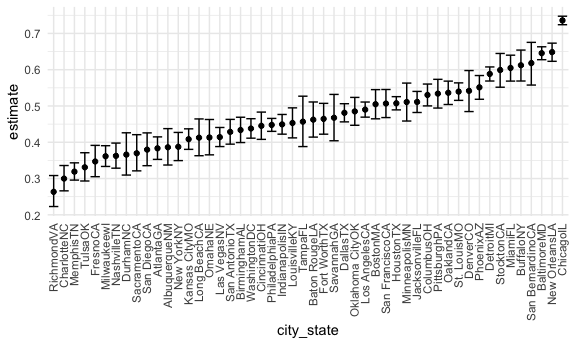
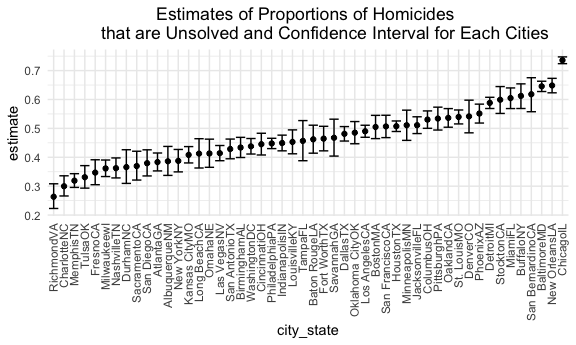
finish problem2

diff --git a/p8105_hw5_yj2686.md b/p8105_hw5_yj2686.md
@@ -50,7 +50,7 @@ baltimore_test %>%
     ##      <dbl>     <dbl>    <dbl>     <int>    <dbl>     <dbl> <chr>     <chr>      
     ## 1    0.646      239. 6.46e-54         1    0.628     0.663 1-sample… two.sided
 
-Let’s try to iterate across states:
+Iterate across states:
 
 First, Write a function.
 
@@ -88,6 +88,7 @@ results_df =
 ```
 
 Make a plot showing estimates and confidence intervals for each cities
+and organize cities according to the proportion of unsolved homicides.
 
 ``` r
 results_df %>% 
@@ -95,40 +96,61 @@ results_df %>%
   ggplot(aes(x = city_state, y = estimate)) +
   geom_point() +
   geom_errorbar(aes(ymin = conf.low, ymax = conf.high)) +
-  theme(axis.text.x = element_text(angle = 90, vjust = 0.5, hjust = 1))
+  labs(title = "Estimates of Proportions of Homicides 
+       that are Unsolved and Confidence Interval for Each Cities") +
+  theme(axis.text.x = element_text(angle = 90, vjust = 0.5, hjust = 1),
+        plot.title = element_text(hjust = 0.5))
 ```
 
 <img src="p8105_hw5_yj2686_files/figure-gfm/unnamed-chunk-5-1.png" width="90%" />
 
 ## Problem 2
 
+Create a tidy dataframe containing data from all participants, including
+the subject ID, arm, and observations over time
+
 ``` r
-tibble(files = list.files("./data/zip_data/"))
+zip_df = tibble(files = list.files("./data/zip_data/")) %>% 
+  mutate(
+    path = str_c("./data/zip_data/",files),
+    result = map(path, read.csv)
+  ) %>% 
+  unnest(result) %>% 
+  separate(
+    files, c("arm","subject_id","format")
+  ) %>% 
+  select(-format, -path) %>% 
+  mutate(
+    arm = ifelse(arm == "con", "control", "experimental")
+  ) %>% 
+  pivot_longer(
+    week_1:week_8,
+    names_to = "week",
+    names_prefix = "week_",
+    values_to = "result"
+  )
 ```
 
-    ## # A tibble: 20 × 1
-    ##    files     
-    ##    <chr>     
-    ##  1 con_01.csv
-    ##  2 con_02.csv
-    ##  3 con_03.csv
-    ##  4 con_04.csv
-    ##  5 con_05.csv
-    ##  6 con_06.csv
-    ##  7 con_07.csv
-    ##  8 con_08.csv
-    ##  9 con_09.csv
-    ## 10 con_10.csv
-    ## 11 exp_01.csv
-    ## 12 exp_02.csv
-    ## 13 exp_03.csv
-    ## 14 exp_04.csv
-    ## 15 exp_05.csv
-    ## 16 exp_06.csv
-    ## 17 exp_07.csv
-    ## 18 exp_08.csv
-    ## 19 exp_09.csv
-    ## 20 exp_10.csv
+Make a spaghetti plot showing observations on each subject over time,
+and comment on differences between groups.
+
+``` r
+zip_df %>% 
+  ggplot(aes(x = week, y = result, color = subject_id)) +
+  facet_grid(. ~ arm) +
+  geom_line(aes(group = subject_id)) +
+  labs(title = "Spaghetti Plot of Observations on 
+       Control Arm and Experimental Arm over 8 Weeks") +
+  theme(plot.title = element_text(hjust = 0.5))
+```
+
+<img src="p8105_hw5_yj2686_files/figure-gfm/unnamed-chunk-7-1.png" width="90%" />
+
+According to the spaghetti plot above, the experimental arm showed a
+increasing trend in observations over 8 weeks, but the control arm did
+not show any obvious trend. Except week 1, the observations of
+experimental arm did not have values below 0. However, several
+observations of control arm have values below 0.
 
 ## Problem 3
 
